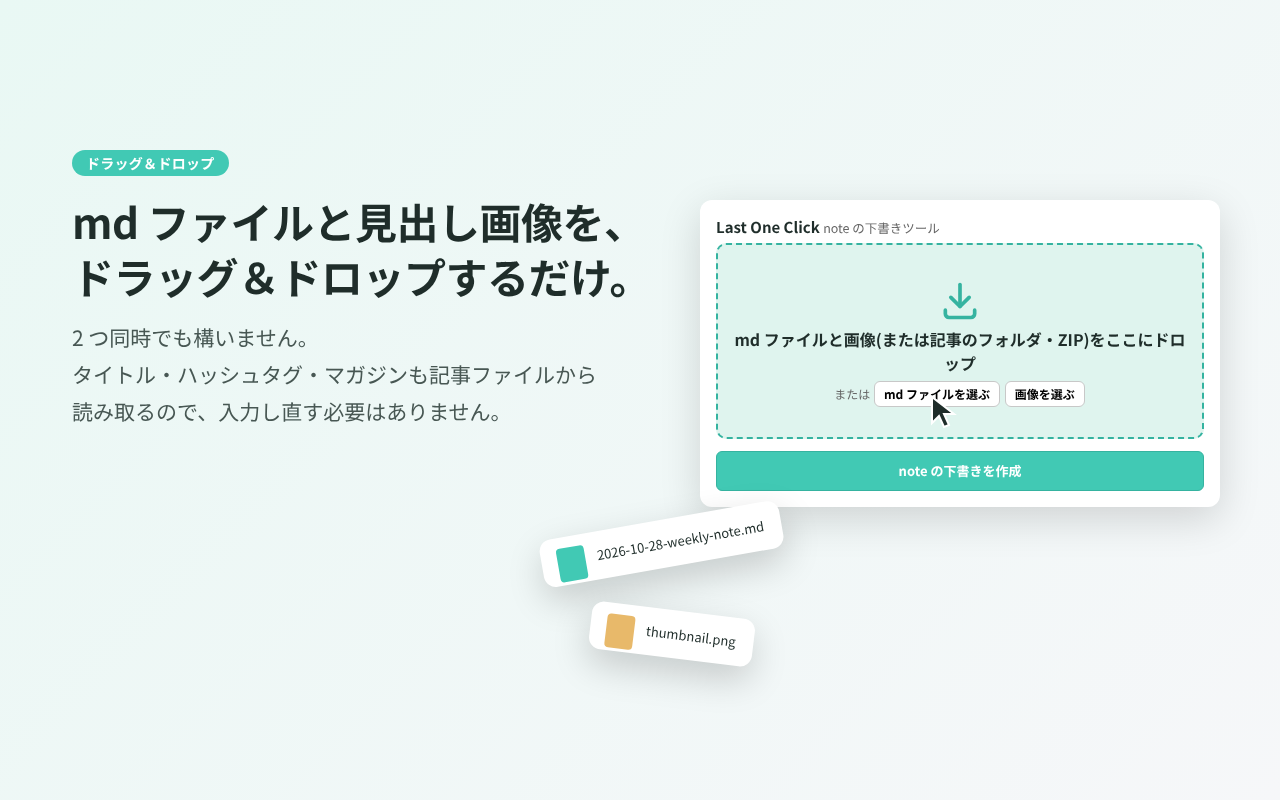
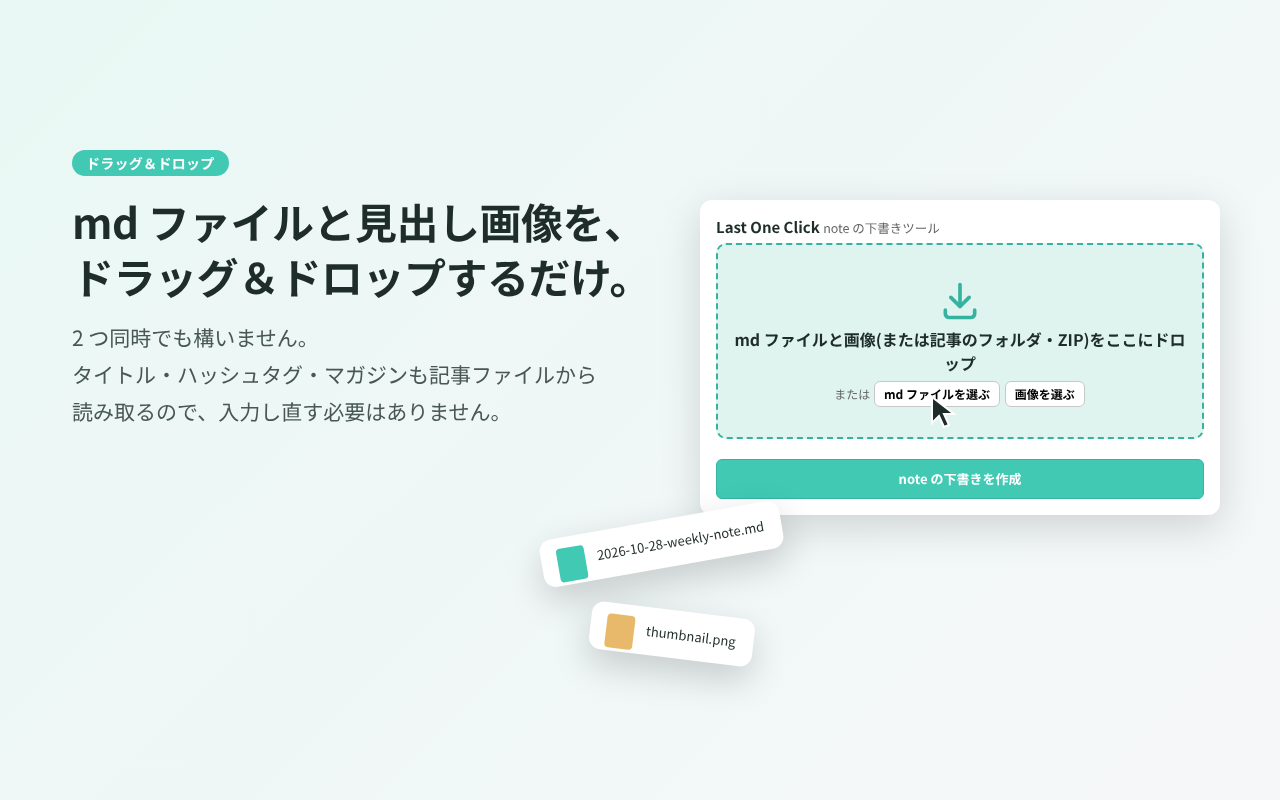
release: v0.1.7 にする(ログイン中のアカウントの表示)
- manifest.json・package.json・package-lock.json の version を 0.1.7 にする
- docs/releases/next.md を docs/releases/v0.1.7.md にし、空の next.md を作り直す
- 追加の対応先の入口(#125)は、下書きの入力ができるまで外す。shared/extra-site.ts の
  EXTRA_SITE_ENABLED を false にし、ポップアップと service worker の入口を止め、
  manifest から activeTab・scripting・optional_host_permissions を外す。
  権限のテストとストアの権限の理由も合わせる
- ストアの画像を作り直す

Claude-Session: https://claude.ai/code/session_013Cqe6jnYd5JrgB5Mzm7x5o

Changed region(s): [[0.5625, 0.5625, 0.9688, 0.6562]]

diff --git a/extension/src/popup.ts b/extension/src/popup.ts
@@ -7,7 +7,7 @@ import { articleOptionsLabel } from "../../shared/article-options";
 import { collectFolderFiles, findRelative, findThumbnail, mimeTypeOf, pickArticleMarkdown, type FsDirEntry, type FsFileEntry } from "../../shared/bundle";
 import { MAX_ZIP_ENTRIES, isBundleFile, readZip } from "../../shared/zip";
 import { buildArticle, fetchMarkdownFromGitHub, fileToPayload, localImageNames, localImageSrcs, payloadToFile } from "./lib/article";
-import { disableExtraSite, enableExtraSite, shouldOfferExtraSite, syncExtraSite } from "../../shared/extra-site";
+import { EXTRA_SITE_ENABLED, disableExtraSite, enableExtraSite, shouldOfferExtraSite, syncExtraSite } from "../../shared/extra-site";
 import { chromeExtraSiteApi } from "./lib/extra-site";
 import { safeClick } from "./lib/safe-click";
 import { loadSelectors } from "./lib/selectors";
@@ -150,44 +150,47 @@ function showExtraSiteSetting(granted: boolean) {
   extraSiteToggleEl.checked = granted;
   if (granted) extraSiteOfferEl.hidden = true;
 }
-chromeExtraSiteApi.hasPermission().then(showExtraSiteSetting, () => showExtraSiteSetting(false));
-// 別ウィンドウで開いたときは、今のウィンドウ = この画面なので、ページは見ない
-if (!isWindow) {
-  chrome.tabs
-    .query({ active: true, currentWindow: true })
-    .then(([tab]) => shouldOfferExtraSite(chromeExtraSiteApi, tab))
-    .then((offer) => {
-      extraSiteOfferEl.hidden = !offer;
-    })
-    .catch(() => {
-      extraSiteOfferEl.hidden = true;
-    });
+// 下書きの入力ができるまでは、入口を出さない(EXTRA_SITE_ENABLED。shared/extra-site.ts)
+if (EXTRA_SITE_ENABLED) {
+  chromeExtraSiteApi.hasPermission().then(showExtraSiteSetting, () => showExtraSiteSetting(false));
+  // 別ウィンドウで開いたときは、今のウィンドウ = この画面なので、ページは見ない
+  if (!isWindow) {
+    chrome.tabs
+      .query({ active: true, currentWindow: true })
+      .then(([tab]) => shouldOfferExtraSite(chromeExtraSiteApi, tab))
+      .then((offer) => {
+        extraSiteOfferEl.hidden = !offer;
+      })
+      .catch(() => {
+        extraSiteOfferEl.hidden = true;
+      });
+  }
+  $("extra-site-enable").addEventListener("click", () => {
+    // 許可を求める呼び出しは、クリックの中で(await より前に)行う
+    enableExtraSite(chromeExtraSiteApi)
+      .then((granted) => {
+        if (!granted) return;
+        showExtraSiteSetting(true);
+        setStatus("このページでも使えるようにしました。切るときは「記事の設定」の「追加の対応先(library.libecity.com)」を外してください。");
+      })
+      .catch((e) => setStatus((e as Error).message, true));
+  });
+  extraSiteToggleEl.addEventListener("change", () => {
+    if (extraSiteToggleEl.checked) return; // 入れ直しは、そのサイトのエディタで「使えるようにする」から
+    disableExtraSite(chromeExtraSiteApi)
+      .then((granted) => {
+        showExtraSiteSetting(granted);
+        if (!granted) setStatus("追加の対応先(library.libecity.com)への許可を外しました。");
+      })
+      .catch((e) => setStatus((e as Error).message, true));
+  });
+  // Chrome の画面(拡張機能の詳細・サイトへのアクセス)から許可を変えられたときも、表示と登録を合わせる
+  const onExtraSitePermissionChanged = () => {
+    syncExtraSite(chromeExtraSiteApi).then(showExtraSiteSetting, () => {});
+  };
+  chrome.permissions.onRemoved.addListener(onExtraSitePermissionChanged);
+  chrome.permissions.onAdded.addListener(onExtraSitePermissionChanged);
 }
-$("extra-site-enable").addEventListener("click", () => {
-  // 許可を求める呼び出しは、クリックの中で(await より前に)行う
-  enableExtraSite(chromeExtraSiteApi)
-    .then((granted) => {
-      if (!granted) return;
-      showExtraSiteSetting(true);
-      setStatus("このページでも使えるようにしました。切るときは「記事の設定」の「追加の対応先(library.libecity.com)」を外してください。");
-    })
-    .catch((e) => setStatus((e as Error).message, true));
-});
-extraSiteToggleEl.addEventListener("change", () => {
-  if (extraSiteToggleEl.checked) return; // 入れ直しは、そのサイトのエディタで「使えるようにする」から
-  disableExtraSite(chromeExtraSiteApi)
-    .then((granted) => {
-      showExtraSiteSetting(granted);
-      if (!granted) setStatus("追加の対応先(library.libecity.com)への許可を外しました。");
-    })
-    .catch((e) => setStatus((e as Error).message, true));
-});
-// Chrome の画面(拡張機能の詳細・サイトへのアクセス)から許可を変えられたときも、表示と登録を合わせる
-const onExtraSitePermissionChanged = () => {
-  syncExtraSite(chromeExtraSiteApi).then(showExtraSiteSetting, () => {});
-};
-chrome.permissions.onRemoved.addListener(onExtraSitePermissionChanged);
-chrome.permissions.onAdded.addListener(onExtraSitePermissionChanged);
 
 // 上級者向け(GitHub から読み込む・貼り付け・selectors の URL・GitHub トークン)は普段は隠す。
 // 「拡張機能の設定」のチェックで表示/非表示を切り替え、chrome.storage に覚える

diff --git a/shared/manifest-permissions.test.ts b/shared/manifest-permissions.test.ts
@@ -1,11 +1,13 @@
 import assert from "node:assert/strict";
 import { existsSync, readFileSync } from "node:fs";
 import { describe, it } from "node:test";
+import { EXTRA_SITE_ENABLED, EXTRA_SITE_ORIGIN } from "./extra-site.js";
 
 const guidance = "権限を変えるときは AGENTS.md の決まりを確かめ、このテストの一覧も同じ PR で直す";
 const expected = {
-  // activeTab と scripting は、入れるときの警告が出ない(追加の対応先の確かめと content script の登録に使う)
-  permissions: ["storage", "clipboardWrite", "activeTab", "scripting"],
+  // activeTab と scripting は、入れるときの警告が出ない(追加の対応先の確かめと content script の登録に使う)。
+  // 追加の対応先は、下書きの入力ができるまで入口ごと外している(EXTRA_SITE_ENABLED)
+  permissions: ["storage", "clipboardWrite", ...(EXTRA_SITE_ENABLED ? ["activeTab", "scripting"] : [])],
   host_permissions: [
     "https://note.com/*",
     "https://editor.note.com/*",
@@ -13,7 +15,7 @@ const expected = {
   ],
   matches: ["https://note.com/*", "https://editor.note.com/*"],
   // 追加の対応先。入れるときには求めず、そのサイトのエディタで「使えるようにする」を押したときに求める
-  optional_host_permissions: ["https://library.libecity.com/*"],
+  optional_host_permissions: EXTRA_SITE_ENABLED ? [EXTRA_SITE_ORIGIN] : [],
 };
 const forbiddenKeys = [
   "optional_permissions",
@@ -24,15 +26,17 @@ const forbiddenKeys = [
 type Manifest = {
   permissions: string[];
   host_permissions: string[];
-  optional_host_permissions: string[];
+  optional_host_permissions?: string[];
   content_scripts: { matches: string[] }[];
 };
 
 function assertPermissions(manifest: Manifest, file: string): void {
   const message = (key: string) => `${file}: ${key} が許可した一覧と異なります。${guidance}`;
   for (const key of ["permissions", "host_permissions", "optional_host_permissions"] as const) {
-    assert.ok(Array.isArray(manifest[key]), message(key));
-    assert.deepEqual([...manifest[key]].sort(), [...expected[key]].sort(), message(key));
+    // optional_host_permissions は、使わないときは書かない(無い = 空)
+    const value = key === "optional_host_permissions" ? (manifest[key] ?? []) : manifest[key];
+    assert.ok(Array.isArray(value), message(key));
+    assert.deepEqual([...value].sort(), [...expected[key]].sort(), message(key));
   }
 
   const matchesMessage = message("content_scripts[].matches");
@@ -53,7 +57,7 @@ describe("拡張の権限を固定する", () => {
   const cases: [string, (m: Manifest) => void][] = [
     ["permissions に tabs を足す", (m) => m.permissions.push("tabs")],
     ["host_permissions に追加の対応先を足す", (m) => m.host_permissions.push("https://library.libecity.com/*")],
-    ["optional_host_permissions にほかのホストを足す", (m) => m.optional_host_permissions.push("https://example.com/*")],
+    ["optional_host_permissions にほかのホストを足す", (m) => (m.optional_host_permissions ??= []).push("https://example.com/*")],
     ["optional_host_permissions を広げる", (m) => (m.optional_host_permissions = ["https://*/*"])],
     ["optional_permissions を足す", (m) => Object.assign(m, { optional_permissions: ["tabs"] })],
     ["content_scripts に追加の対応先を足す", (m) => m.content_scripts[0].matches.push("https://library.libecity.com/*")],

diff --git a/extension/src/background.ts b/extension/src/background.ts
@@ -9,7 +9,7 @@
 //      読んだ名前・ID・アイコンの URL はポップアップに返すだけで、保存しない・note.com 以外へ送らない
 // 記事の中身には触らない。
 import { fetchCurrentUser } from "../../shared/current-user";
-import { syncExtraSite } from "../../shared/extra-site";
+import { EXTRA_SITE_ENABLED, syncExtraSite } from "../../shared/extra-site";
 import { chromeExtraSiteApi } from "./lib/extra-site";
 import { loadSelectors } from "./lib/selectors";
 import type { AccountResponse, Message, SelectorsResponse, WhoAmIResponse } from "./lib/types";
@@ -42,7 +42,10 @@ chrome.runtime.onMessage.addListener((msg: Message, sender, sendResponse: (r: Wh
 const syncExtraSiteScript = () => {
   syncExtraSite(chromeExtraSiteApi).catch((e) => console.warn("追加の対応先の登録を合わせられませんでした", e));
 };
-syncExtraSiteScript();
-chrome.runtime.onStartup.addListener(syncExtraSiteScript);
-chrome.permissions.onAdded.addListener(syncExtraSiteScript);
-chrome.permissions.onRemoved.addListener(syncExtraSiteScript);
+// 下書きの入力ができるまでは、登録しない(EXTRA_SITE_ENABLED。shared/extra-site.ts)
+if (EXTRA_SITE_ENABLED) {
+  syncExtraSiteScript();
+  chrome.runtime.onStartup.addListener(syncExtraSiteScript);
+  chrome.permissions.onAdded.addListener(syncExtraSiteScript);
+  chrome.permissions.onRemoved.addListener(syncExtraSiteScript);
+}

diff --git a/shared/extra-site.ts b/shared/extra-site.ts
@@ -5,6 +5,13 @@
 //
 // chrome の API は ExtraSiteApi として外から渡す(テストでは偽物を渡す。ルートの tsconfig には chrome の型が無い)
 
+/**
+ * 追加の対応先を拡張で使うか。下書きの入力ができるまでは false にして、ストアの版には入口(案内・スイッチ・登録)を出さない。
+ * true に戻すときは、extension/manifest.json に activeTab・scripting と optional_host_permissions を足し、
+ * shared/manifest-permissions.test.ts と extension/store/listing.md の権限の理由も同じ PR で戻す(v0.1.7 で外した。#120)
+ */
+export const EXTRA_SITE_ENABLED = false;
+
 export const EXTRA_SITE_HOST = "library.libecity.com";
 /** optional_host_permissions と、content script の matches に使う */
 export const EXTRA_SITE_ORIGIN = `https://${EXTRA_SITE_HOST}/*`;

diff --git a/docs/releases/next.md b/docs/releases/next.md
@@ -1,16 +1,10 @@
 # 次の版(まだストアに出していない)
 
-ストアに出ている版(v0.1.6)のあとに main にマージした、利用者に関係する変更をためておく所です。ここにある機能は、次の版(v0.1.7)がストアで公開されるまで、ストアから入れた拡張では使えません。
+ストアに出ている版(v0.1.7)のあとに main にマージした、利用者に関係する変更をためておく所です。ここにある機能は、次の版(v0.1.8)がストアで公開されるまで、ストアから入れた拡張では使えません。
 
 - 拡張の動きを変える PR は、同じ PR でここに 1 行足す(見張り役(`tools/`)・テストだけの変更は書かない)
-- リリースの PR で、このファイルを `docs/releases/v0.1.7.md` にし、空の `next.md` を作り直す(手順は [docs/store-submission.md](../store-submission.md))
+- リリースの PR で、このファイルを `docs/releases/v0.1.8.md` にし、空の `next.md` を作り直す(手順は [docs/store-submission.md](../store-submission.md))
 
 ## 変わったこと
-
-- 診断のレポートの節「ログイン中のアカウントの手がかり」で、埋め込まれたデータのキーを、同じ道筋を 1 つにまとめてから数えるようにしました。同じ形の記事一覧が先にあっても、アカウントの道筋が欠けません
-- ポップアップの「note の下書きを作成」の上と、編集画面の右下のバナーに、ログイン中の note アカウントのアイコンと名前を出すようにしました。アカウントを 2 つ持っているときに、違うアカウントで投稿しないためです。note のタブの中から、ログイン中のユーザーの情報を返す note の問い合わせに 1 回だけ問い合わせます(Cookie は読みません。名前とアイコンは画面に出すだけで、保存も送信もしません)。診断のレポートの「ログイン中のアカウントの手がかり」にも、この問い合わせの結果(応答の有無・状態・道筋と文字数だけ)を足しました
-- 追加の対応先(library.libecity.com)を使えるようにする仕組みを足しました。そのサイトの新規記事エディタを開いてツールバーのアイコンを押したときだけ、ポップアップに案内が出て、「使えるようにする」を押すとそのサイトへの許可を求めます。入れるときの権限の警告は増えません。切るときは「記事の設定」のスイッチを外します(下書きの入力は、まだ入っていません)
-- 本文の Markdown を変換する部品(marked)を 18.2 に新しくしました。太字・斜体の閉じ方や、入れ子の箇条書きの中の見出し・コードの後の文が、より正しく変換されます
-- ポップアップを開いたとき、note のタブが 1 つも無くても(またはタブから返事が無くても)、ログイン中の note アカウントを出すようにしました。このときだけ、拡張から note.com に 1 回問い合わせます(GET だけ。Cookie は読みません。名前とアイコンは画面に出すだけで、保存も送信もしません)
 
 ## 変えていないもの

diff --git a/docs/releases/v0.1.7.md b/docs/releases/v0.1.7.md
@@ -1,0 +1,28 @@
+# v0.1.7
+
+ログイン中の note アカウントのアイコンと名前を、ポップアップと編集画面のバナーに出すようにした版です。アカウントを 2 つ持っているときに、違うアカウントで投稿しないためです。現在は note に対応しています。
+
+## 変わったこと
+
+- ポップアップの「note の下書きを作成」のすぐ上に、「ログイン中: [アイコン] 名前」を出すようにしました
+  - note のタブを開いていなくても出ます(このときだけ、拡張から note.com に 1 回問い合わせます)
+  - 投稿したいアカウントと違っていたら、note でアカウントを切り替えてから作成してください
+- 編集画面の右下のバナーに、「このアカウントで作りました: [アイコン] 名前」を出すようにしました(下書きを入れ終えたときと、公開設定を入れたあと)
+  - 読めなかったときは何も出さず、下書きの作成はそのまま続けます
+- アカウントは、ログイン中のユーザーの情報を返す note の問い合わせ(GET)に 1 回だけ問い合わせて読みます。Cookie は読みません。名前とアイコンは画面に出すだけで、保存も、note.com 以外への送信もしません。問い合わせるのは、ポップアップを開いたとき・下書きを入れ終えたとき・公開設定を入れたあと・診断のときだけです
+- 診断(「拡張機能の設定」→「診断(動かないとき)」)の「ログイン中のアカウントの手がかり」に、この問い合わせの結果(応答の有無・状態・道筋と文字数だけ。値は伏せます)を足しました。また、同じ形の記事一覧が先にあっても、アカウントの手がかりが欠けないようにしました
+- 本文の Markdown を変換する部品(marked)を 18.2 に新しくしました。太字・斜体の閉じ方や、入れ子の箇条書きの中の見出し・コードの後の文が、より正しく変換されます
+
+## 入手
+
+- Chrome ウェブストア: https://chromewebstore.google.com/detail/last-one-click/jomapffkhcdpnodaffobmpfofnnaihnd
+- 入手・紹介ページ: https://shibuhachi.works/last-one-click/
+- 使い方は [extension/README.md](https://github.com/shibuhachi-works/last-one-click/blob/v0.1.7/extension/README.md)、プライバシーポリシーは [docs/PRIVACY.md](https://github.com/shibuhachi-works/last-one-click/blob/v0.1.7/docs/PRIVACY.md)
+- 拡張でできることは、見本の記事 [templates/note](https://github.com/shibuhachi-works/last-one-click/tree/v0.1.7/templates/note)・[templates/note-paid](https://github.com/shibuhachi-works/last-one-click/tree/v0.1.7/templates/note-paid) を「GitHub から読み込む」で読み込むか、フォルダごとドロップして試せます
+
+## 変えていないもの
+
+- 権限(`permissions` と `host_permissions`)。`cookies` 権限は持ちません。記事を送るサーバーを持たないこと、公開ボタンを押さないこと
+- 「投稿する」「有料で公開する」は押しません。最後の 1 クリックは人が押します
+
+不具合は Issues へ。ライセンスは MIT です。
